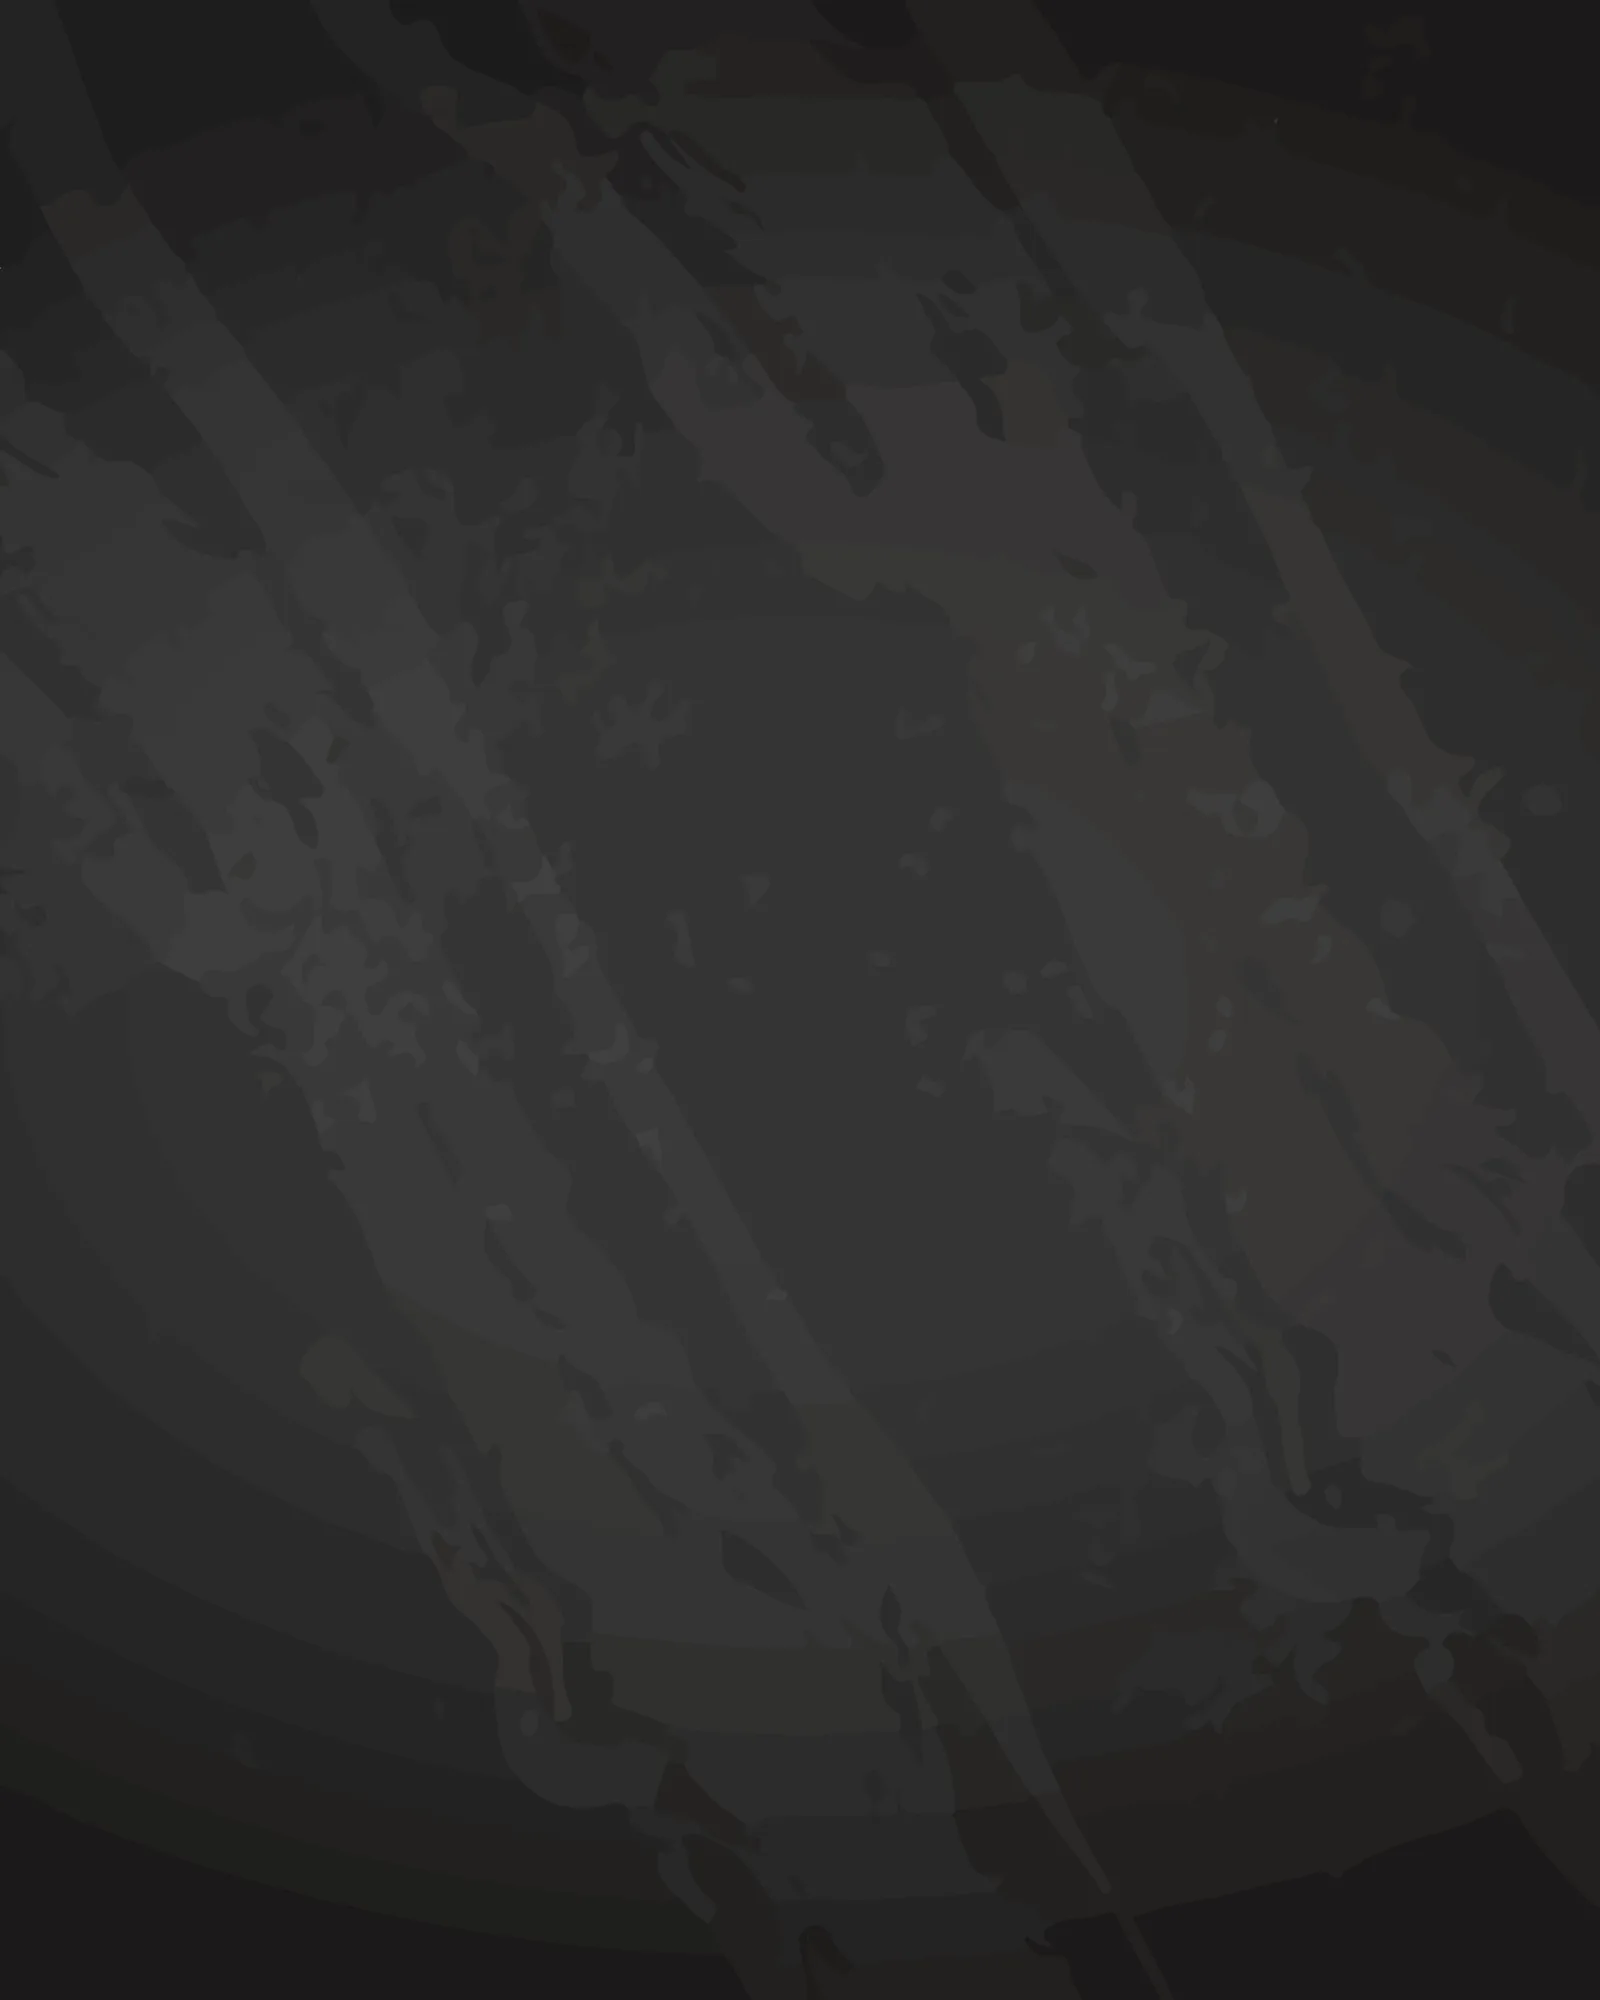
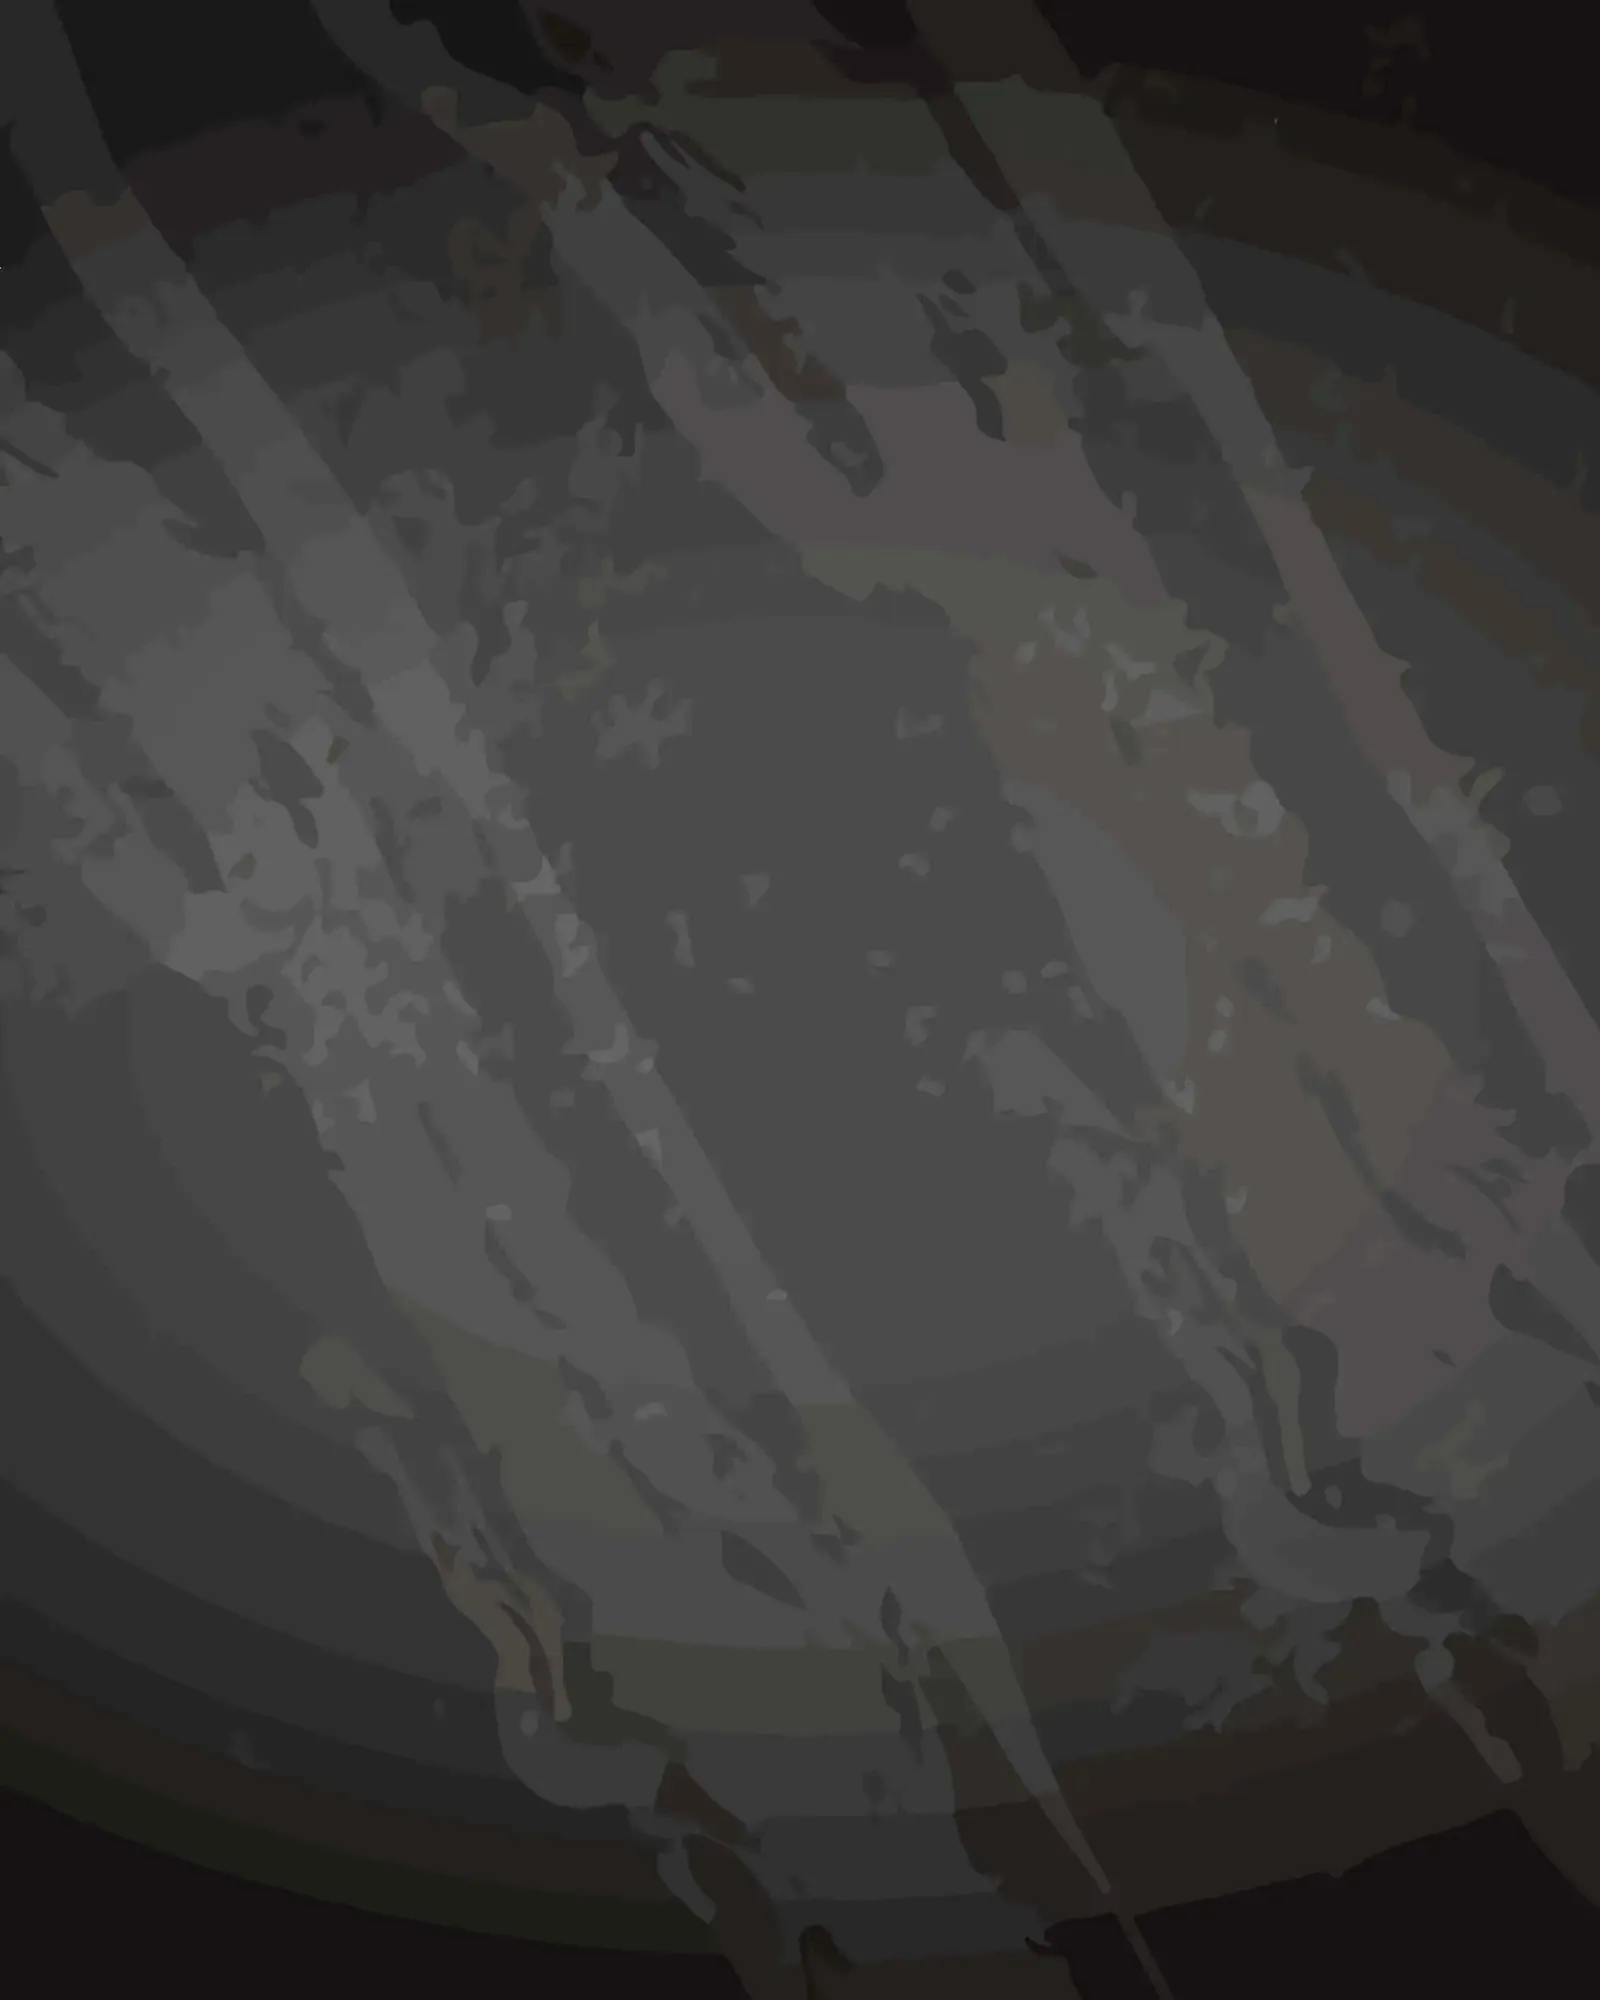
0.5

diff --git a/script.js b/script.js
@@ -222,10 +222,12 @@ document.querySelectorAll('[data-yt]').forEach(box => {
     sx: .00006 + (i % 3) * .00003, sy: .00007 + ((i + 1) % 3) * .00002, p: i * 1.3
   }, o));
   let W = 0, H = 0, sparks = [];
-  const SCALE = 0.5; // pozadí je rozmazané, stačí nižší rozlišení = rychlejší
+  const MOBIL = window.matchMedia('(max-width: 1000px), (pointer: coarse)').matches;
+  const SCALE = MOBIL ? 0.3 : 0.5;   // pozadí je rozmazané, stačí nižší rozlišení = rychlejší
+  const FRAME = MOBIL ? 66 : 33;     // mobil 15 snímků/s, počítač 30 snímků/s
 
   function size() {
-    W = window.innerWidth; H = window.innerHeight;
+    W = window.innerWidth; H = Math.round(cv.getBoundingClientRect().height) || window.innerHeight;
     cv.width = Math.round(W * SCALE); cv.height = Math.round(H * SCALE);
     const n = Math.round(Math.min(80, (W * H) / 26000 * nalada.jiskry));
     sparks = Array.from({ length: n }, () => newSpark(true));
@@ -243,10 +245,16 @@ document.querySelectorAll('[data-yt]').forEach(box => {
   }
 
   let last = 0;
-  function frame(t) {
+  // vlastní hodiny animace: běží stále stejně rychle, i když prohlížeč při scrollu snímky vynechá
+  let cas = 0;
+  function frame(now) {
     requestAnimationFrame(frame);
-    if (document.hidden || t - last < 33) return; // cca 30 snímků za sekundu
-    last = t;
+    if (document.hidden || now - last < FRAME) return;
+    const dt = Math.min(now - last, 70);   // po pauze žádný skok dopředu
+    last = now;
+    cas += dt;
+    const t = cas;
+    const krok = dt / 33;                  // pohyb jisker podle času, ne podle počtu snímků
     g.setTransform(SCALE, 0, 0, SCALE, 0, 0);
     // pod animací je Michaelovo vlastní pozadí (img/pozadi.webp), tady jen jemný barevný nádech stránky
     g.clearRect(0, 0, W, H);
@@ -269,7 +277,7 @@ document.querySelectorAll('[data-yt]').forEach(box => {
     });
 
     sparks.forEach((s, i) => {
-      s.y -= s.v; s.x += s.d + Math.sin(t * .001 + s.t) * .15;
+      s.y -= s.v * krok; s.x += (s.d + Math.sin(t * .001 + s.t) * .15) * krok;
       if (s.y < -10) sparks[i] = newSpark(false);
       const tw = s.a * (.6 + .4 * Math.sin(t * .003 + s.t));
       g.fillStyle = `rgba(${nalada.barvaJisker},${tw})`;
@@ -279,7 +287,13 @@ document.querySelectorAll('[data-yt]').forEach(box => {
   }
 
   size();
-  window.addEventListener('resize', size);
+  let lastW = W, lastH = H;
+  window.addEventListener('resize', () => {
+    // na mobilu se při scrollu mění výška kvůli liště prohlížeče – to ignorujeme
+    if (window.innerWidth !== lastW) {
+      size(); lastW = W; lastH = H;
+    }
+  });
   requestAnimationFrame(frame);
 })();
 
@@ -352,6 +366,7 @@ document.querySelectorAll('[data-yt]').forEach(box => {
   let ceka = false;
   function posun() {
     ceka = false;
+    if (window.innerWidth <= 640) return; // na mobilu jsou ilustrace skryté
     const vh = window.innerHeight;
     prvky.forEach(o => {
       const r = o.sekce.getBoundingClientRect();

diff --git a/style.css b/style.css
@@ -1111,3 +1111,17 @@ body::after {
 .burger[aria-expanded="true"] span:nth-child(1) { transform: translateY(8px) rotate(45deg); }
 .burger[aria-expanded="true"] span:nth-child(2) { opacity: 0; }
 .burger[aria-expanded="true"] span:nth-child(3) { transform: translateY(-8px) rotate(-45deg); }
+
+/* iPhone: plynulejší scroll */
+.bg-texture { filter: none; }
+@media (max-width: 1000px), (pointer: coarse) {
+  .top.scrolled, .top { backdrop-filter: none; -webkit-backdrop-filter: none; }
+  .top.scrolled { background: rgba(22, 21, 20, .96); }
+  .form { backdrop-filter: none; }
+  .bg-texture, .bg-anim { transform: translateZ(0); }
+}
+html, body { overscroll-behavior-y: none; }
+
+/* Pozadí má pevnou výšku obrazovky – když se na iPhonu schová lišta Safari,
+   nic se neroztahuje a animace neposkočí */
+.bg-anim, .bg-texture { inset: 0 0 auto 0; height: 100vh; height: 100lvh; }
